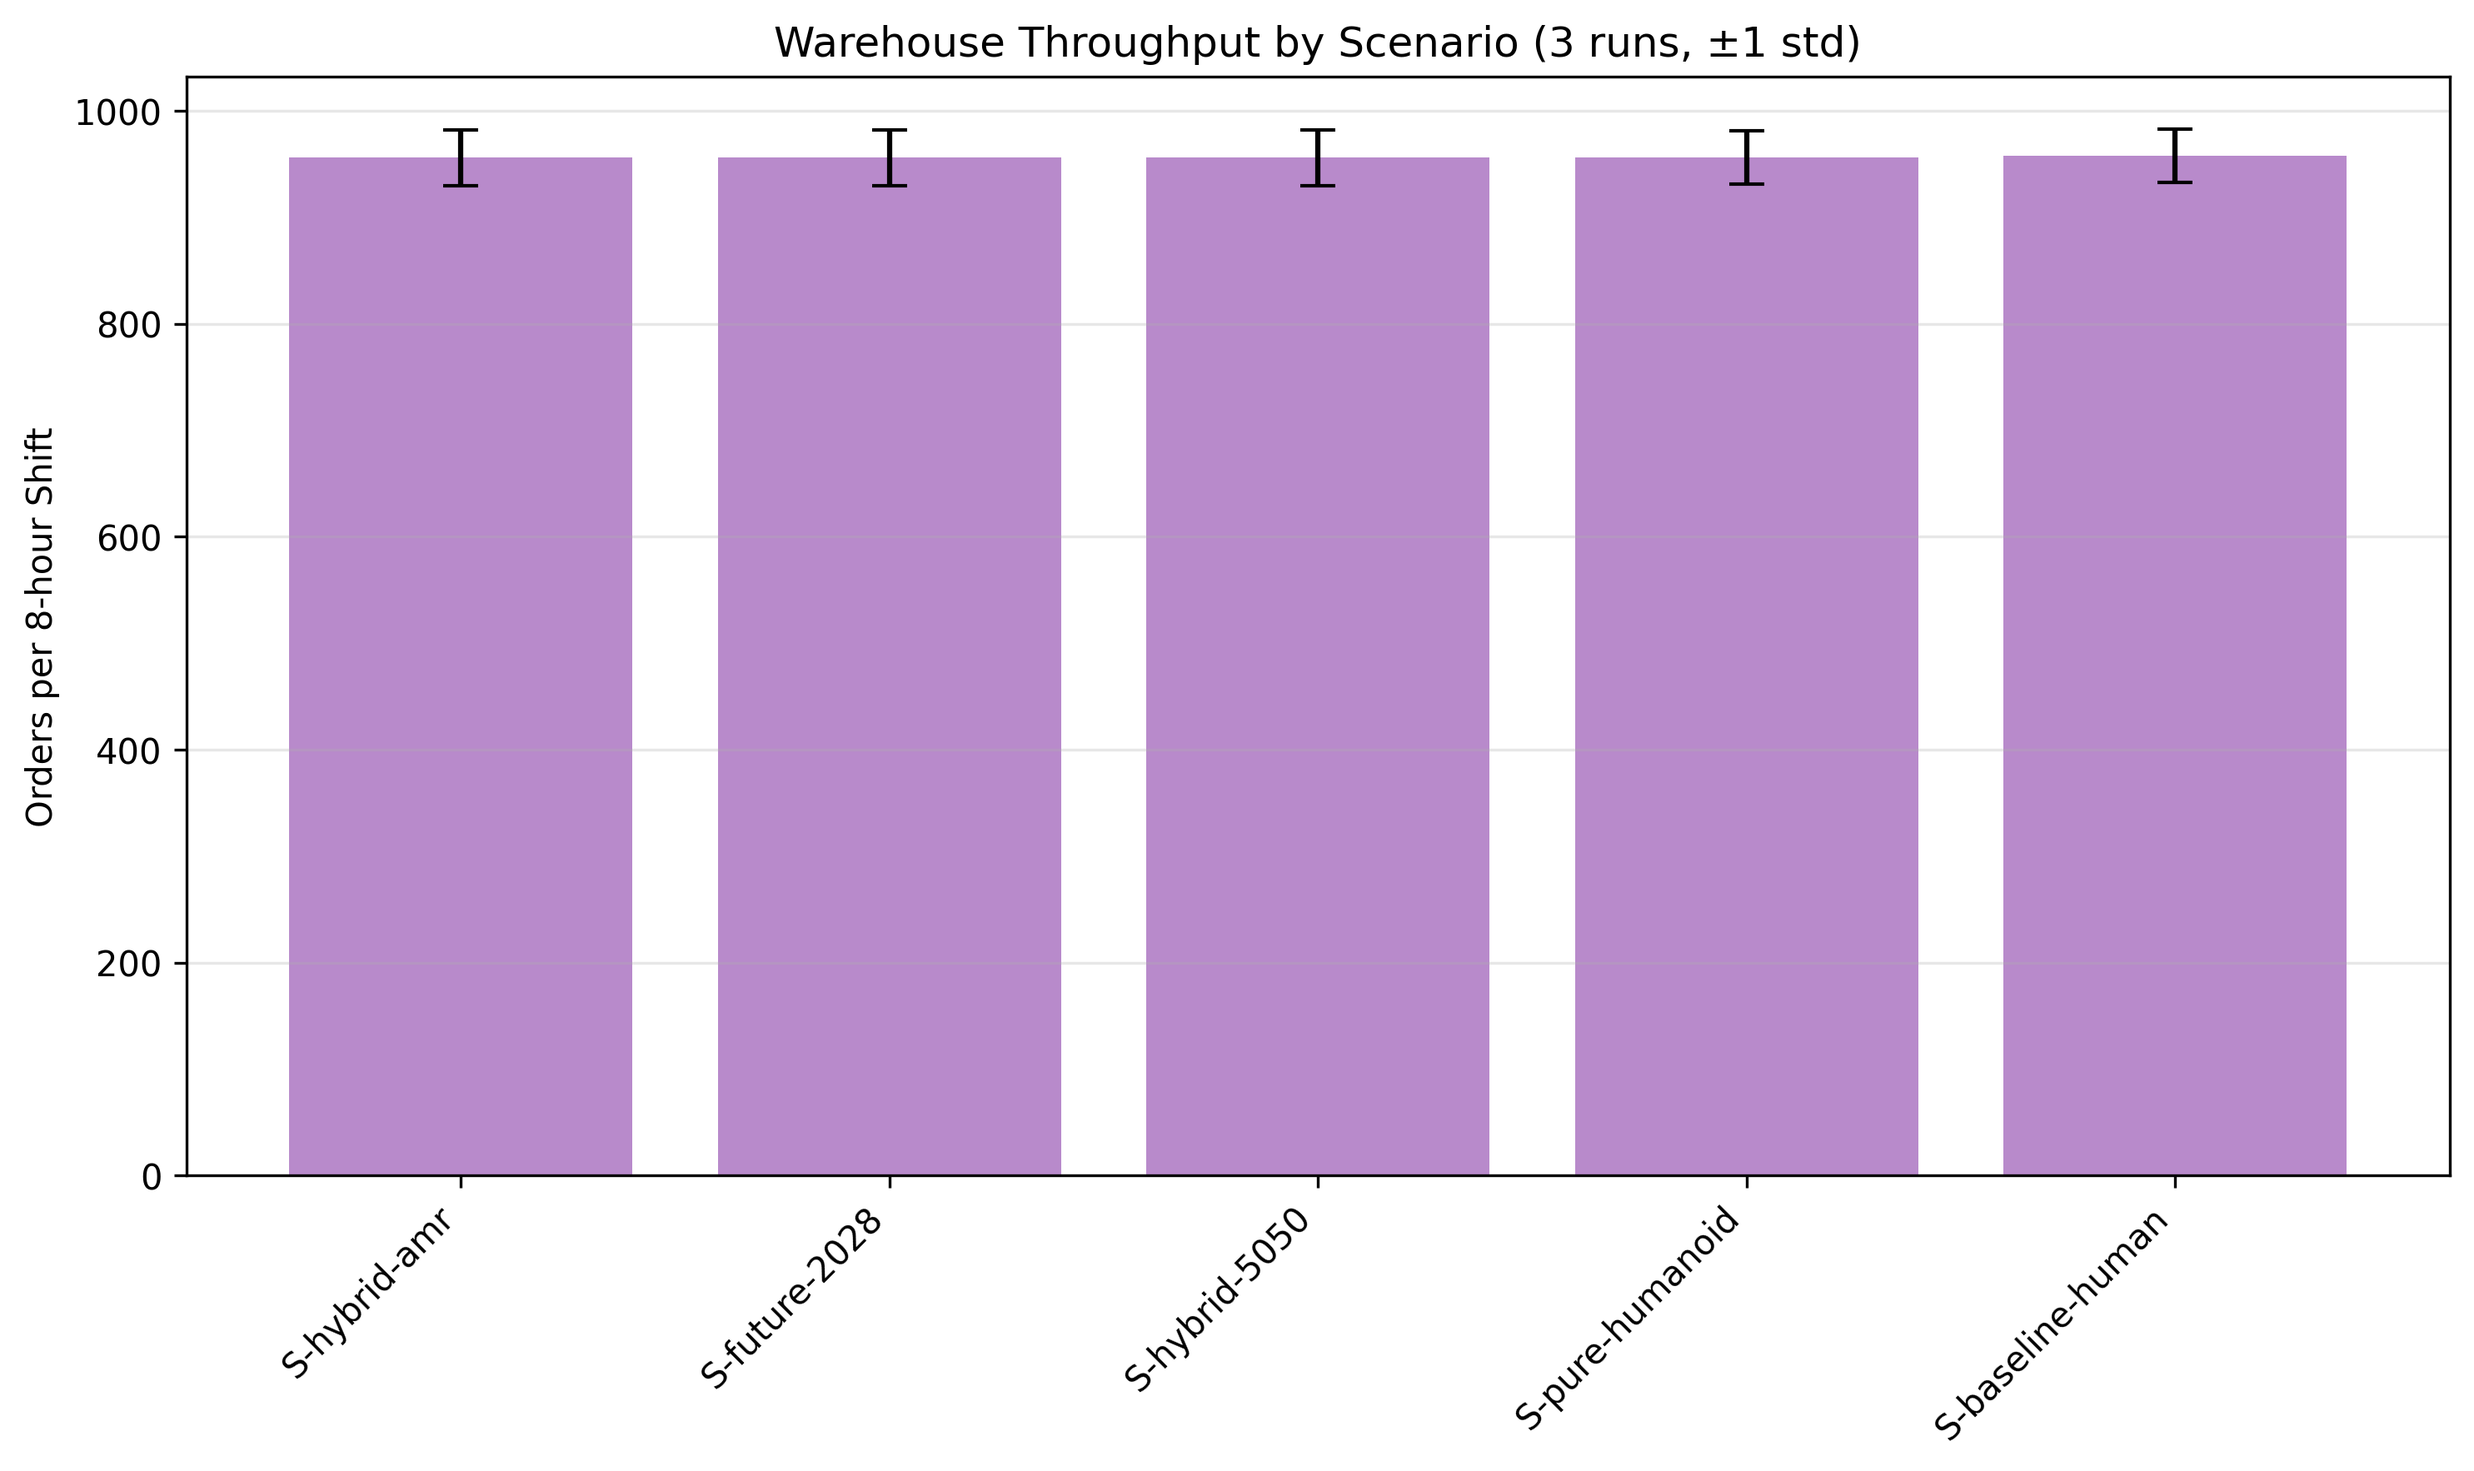
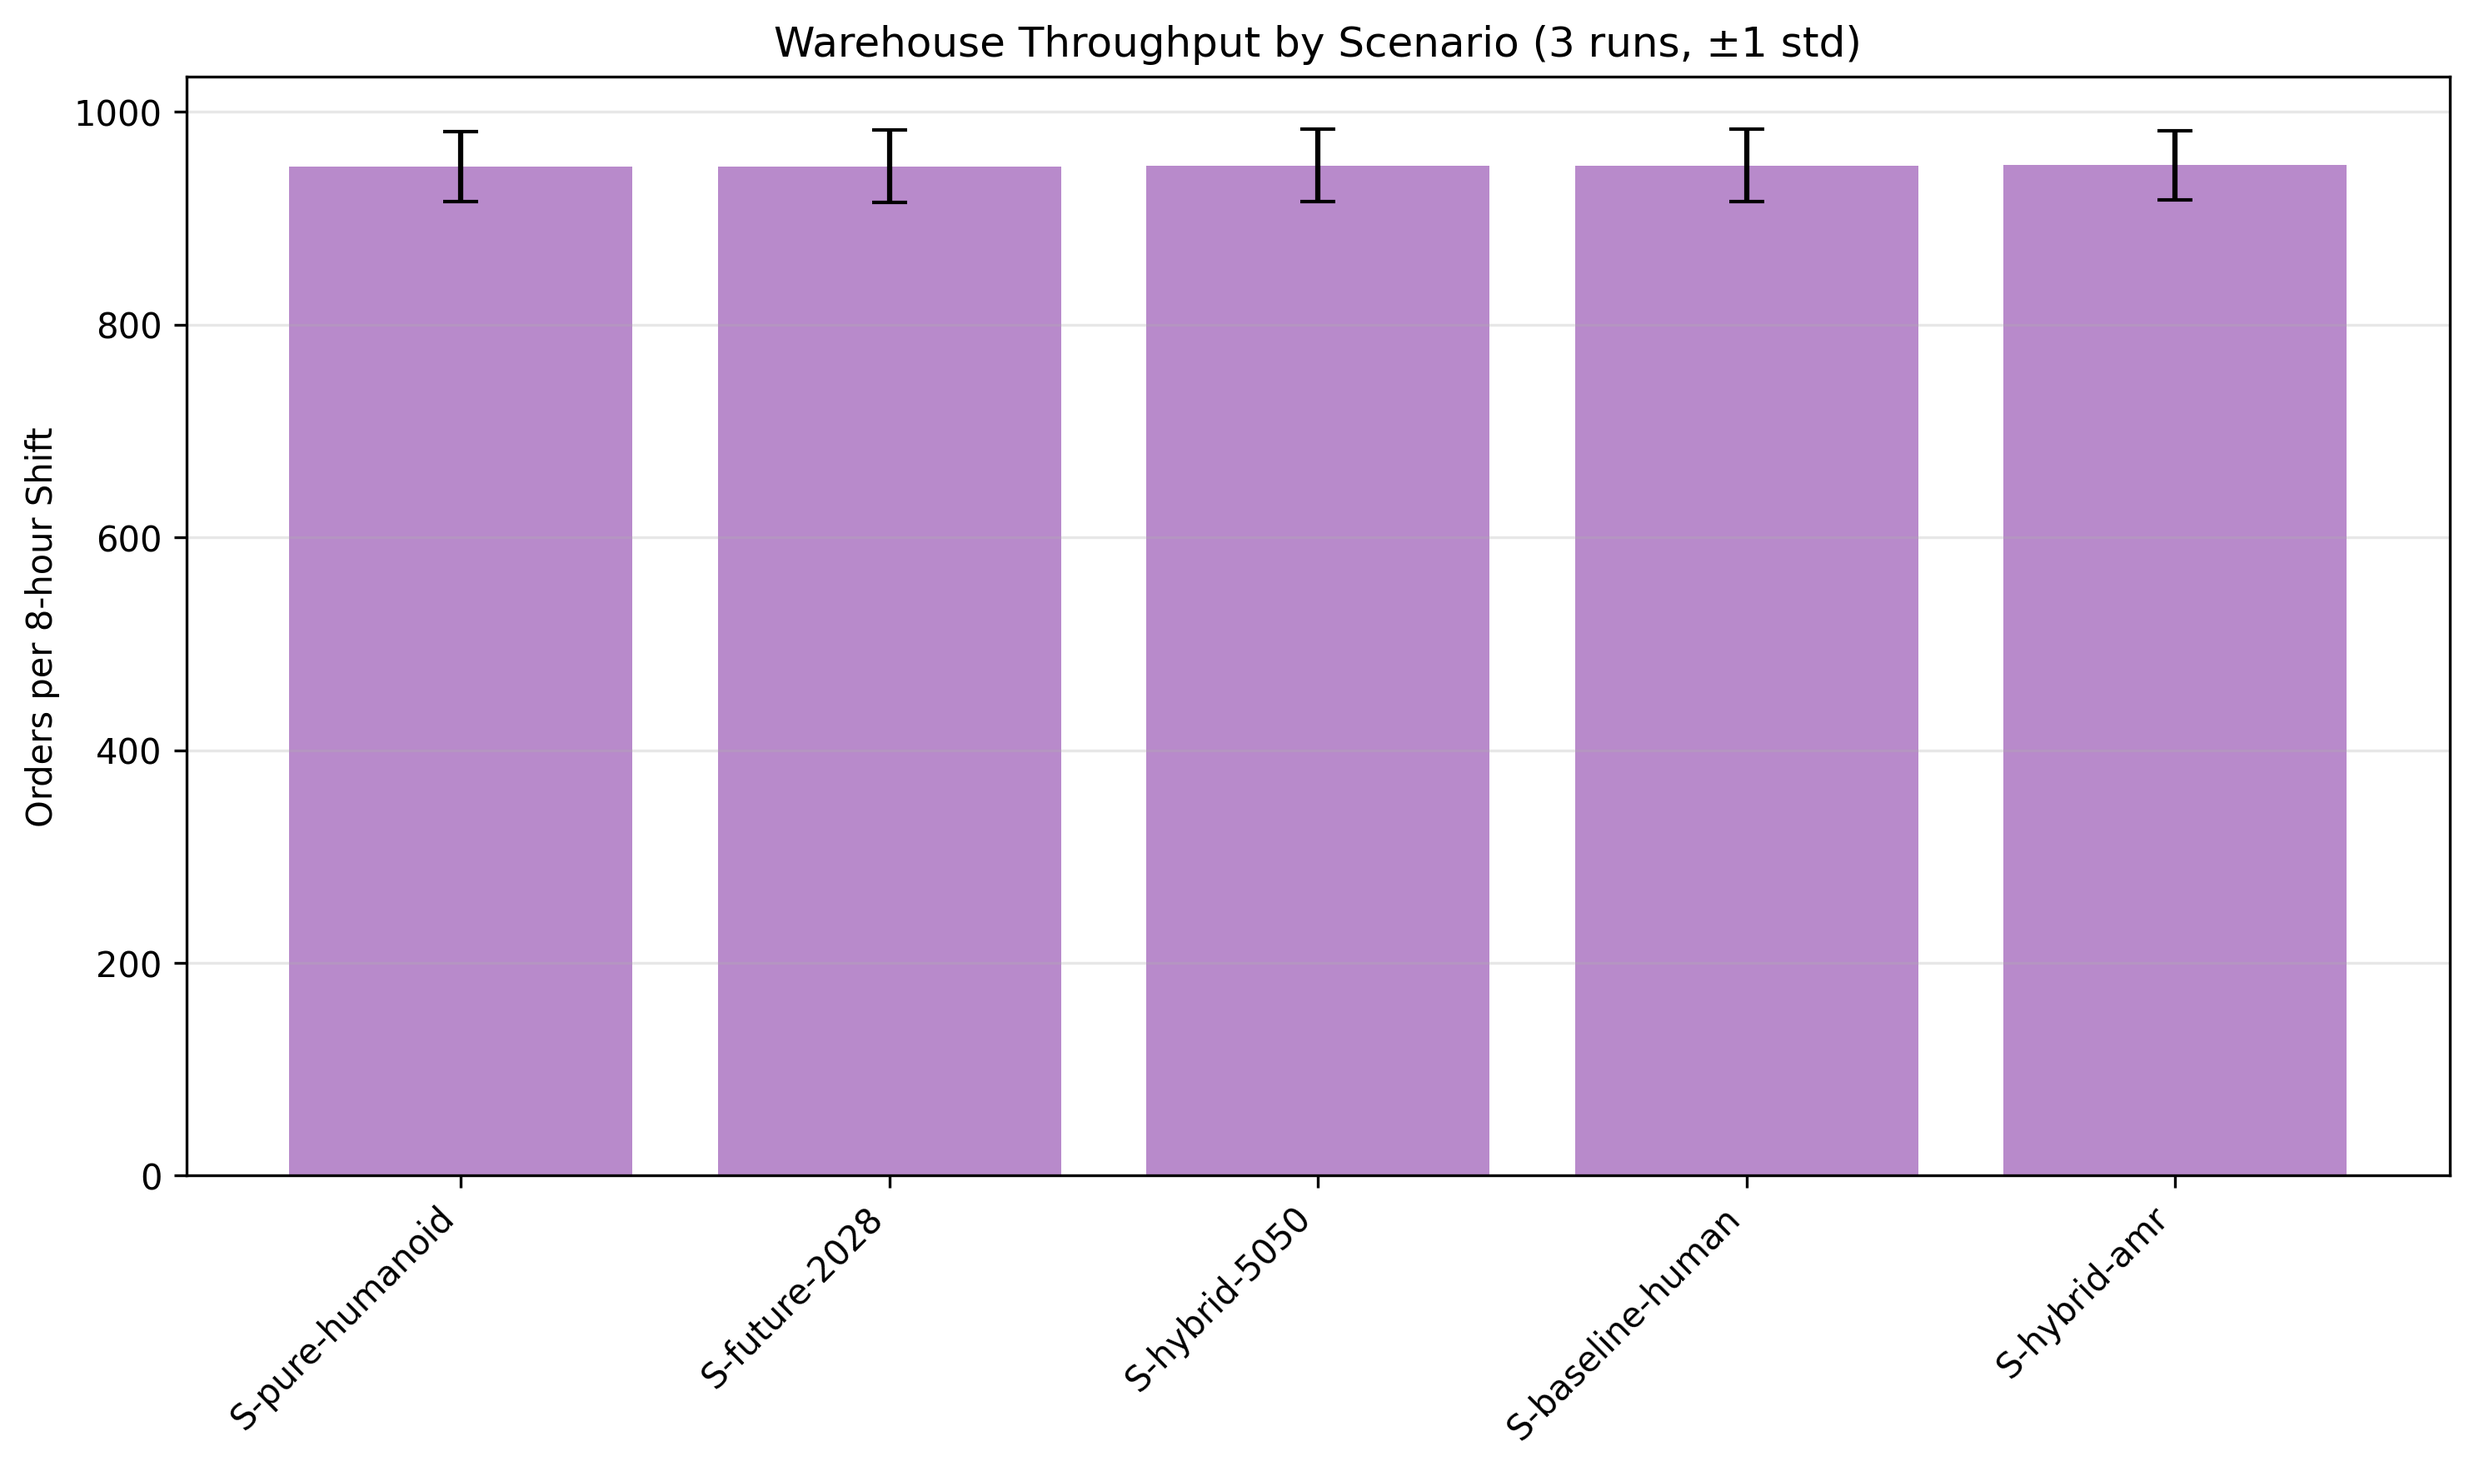
fix(tco): remove misleading npv_std/ci fields; throughput doesn't scale fixed labor costs

diff --git a/src/warehouse_humanoid_tco/pipelines/module_03_tco.py b/src/warehouse_humanoid_tco/pipelines/module_03_tco.py
@@ -36,9 +36,13 @@ def compute_tco_scenario(
     Returns dict with npv_eur, cost_reduction_vs_baseline_pct, payback_years.
     IRR is omitted: this is a pure-cost model with no revenue, making IRR undefined.
     payback_years = capex / annual_opex_savings_vs_baseline (inf if no savings).
+
+    Note: throughput affects scenario comparison (higher throughput = more productive
+    workforce) but does NOT scale NPV in this model because labor cost is fixed per FTE,
+    not per order. Future: consider energy cost per order or maintenance cost per throughput.
     """
-    # Extract agent counts from simulation data
-    total_throughput = simulation_data.get("throughput_orders_per_shift", 0)  # noqa: F841
+    # Extract throughput from simulation (may affect future cost drivers)
+    total_throughput = simulation_data.get("throughput_orders_per_shift", 0)
 
     # Assumptions
     humanoid_capex = assumptions.get("humanoid_capex_eur", 120000)
@@ -161,44 +165,29 @@ def module_03_main(
 
     tco_results = []
     if len(sim_df) > 0:
-        # Group by scenario and compute per-run NPVs
+        # Group by scenario and compute NPV
+        # Note: NPV is deterministic per scenario (depends only on agent composition, not throughput)
+        # Throughput variation across runs does not affect NPV in this fixed-cost model
         for scenario_id in sim_df.select(pl.col("scenario_id").unique()).to_series():
             scenario_data = sim_df.filter(pl.col("scenario_id") == scenario_id)
 
-            # Compute NPV for each run individually
-            npv_per_run = []
-            for throughput in scenario_data["throughput_orders_per_shift"]:
-                result = compute_tco_scenario(
-                    scenario_id,
-                    {"throughput_orders_per_shift": float(throughput)},
-                    assumptions,
-                )
-                npv_per_run.append(result["npv_eur"])
-
-            # Aggregate: mean, std, 90% CI
-            npv_array = np.array(npv_per_run)
-            npv_mean = float(np.mean(npv_array))
-            npv_std = float(np.std(npv_array, ddof=1)) if len(npv_array) > 1 else 0.0
-            ci_lower = float(np.percentile(npv_array, 5))
-            ci_upper = float(np.percentile(npv_array, 95))
-
-            # Use mean for base result, add CI fields
+            # Use mean throughput to compute a single NPV per scenario
             throughput_mean = float(scenario_data["throughput_orders_per_shift"].mean())
             result = compute_tco_scenario(
                 scenario_id,
                 {"throughput_orders_per_shift": throughput_mean},
                 assumptions,
             )
-            result["npv_mean_eur"] = npv_mean
-            result["npv_std_eur"] = npv_std
-            result["npv_ci_lower_90_eur"] = ci_lower
-            result["npv_ci_upper_90_eur"] = ci_upper
-            result["n_runs"] = len(npv_per_run)
+            result["n_simulation_runs"] = len(scenario_data)
+            result["throughput_mean_orders_per_shift"] = throughput_mean
+            result["throughput_std_orders_per_shift"] = float(
+                scenario_data["throughput_orders_per_shift"].std()
+            )
 
             tco_results.append(result)
             print(
-                f"  {scenario_id}: NPV = €{npv_mean:.0f} ± €{npv_std:.0f} "
-                f"(90% CI: [€{ci_lower:.0f}, €{ci_upper:.0f}])"
+                f"  {scenario_id}: NPV = €{result['npv_eur']:.0f} "
+                f"(throughput: {throughput_mean:.0f} ± {result['throughput_std_orders_per_shift']:.0f} orders/shift)"
             )
 
     # ========== Export ==========
